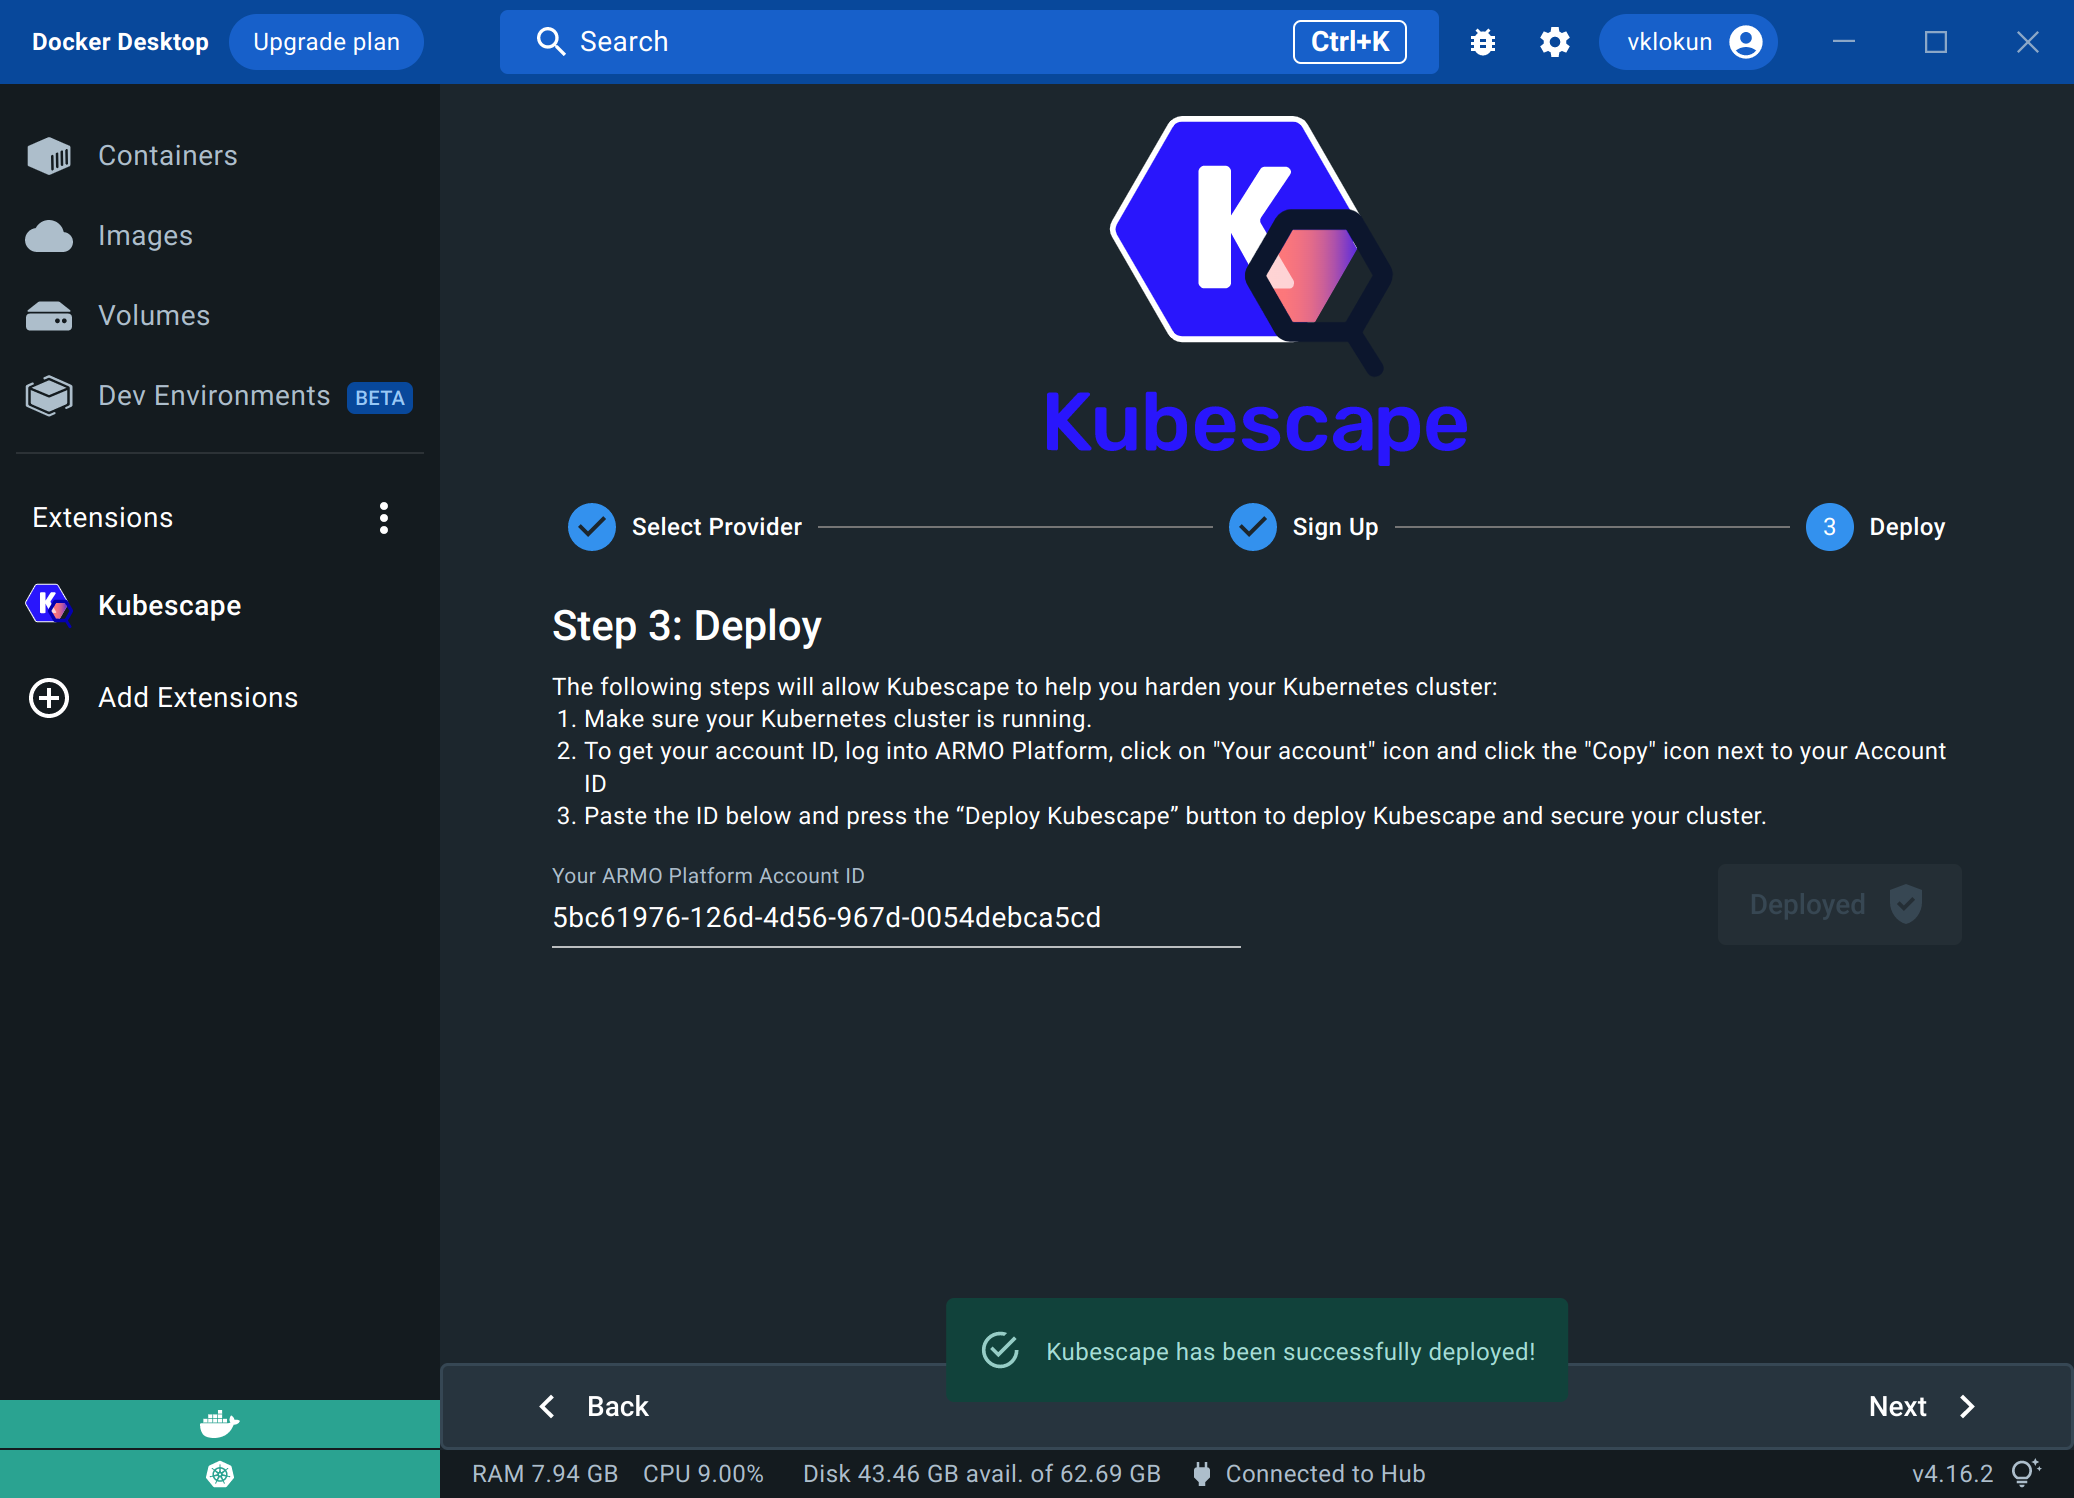
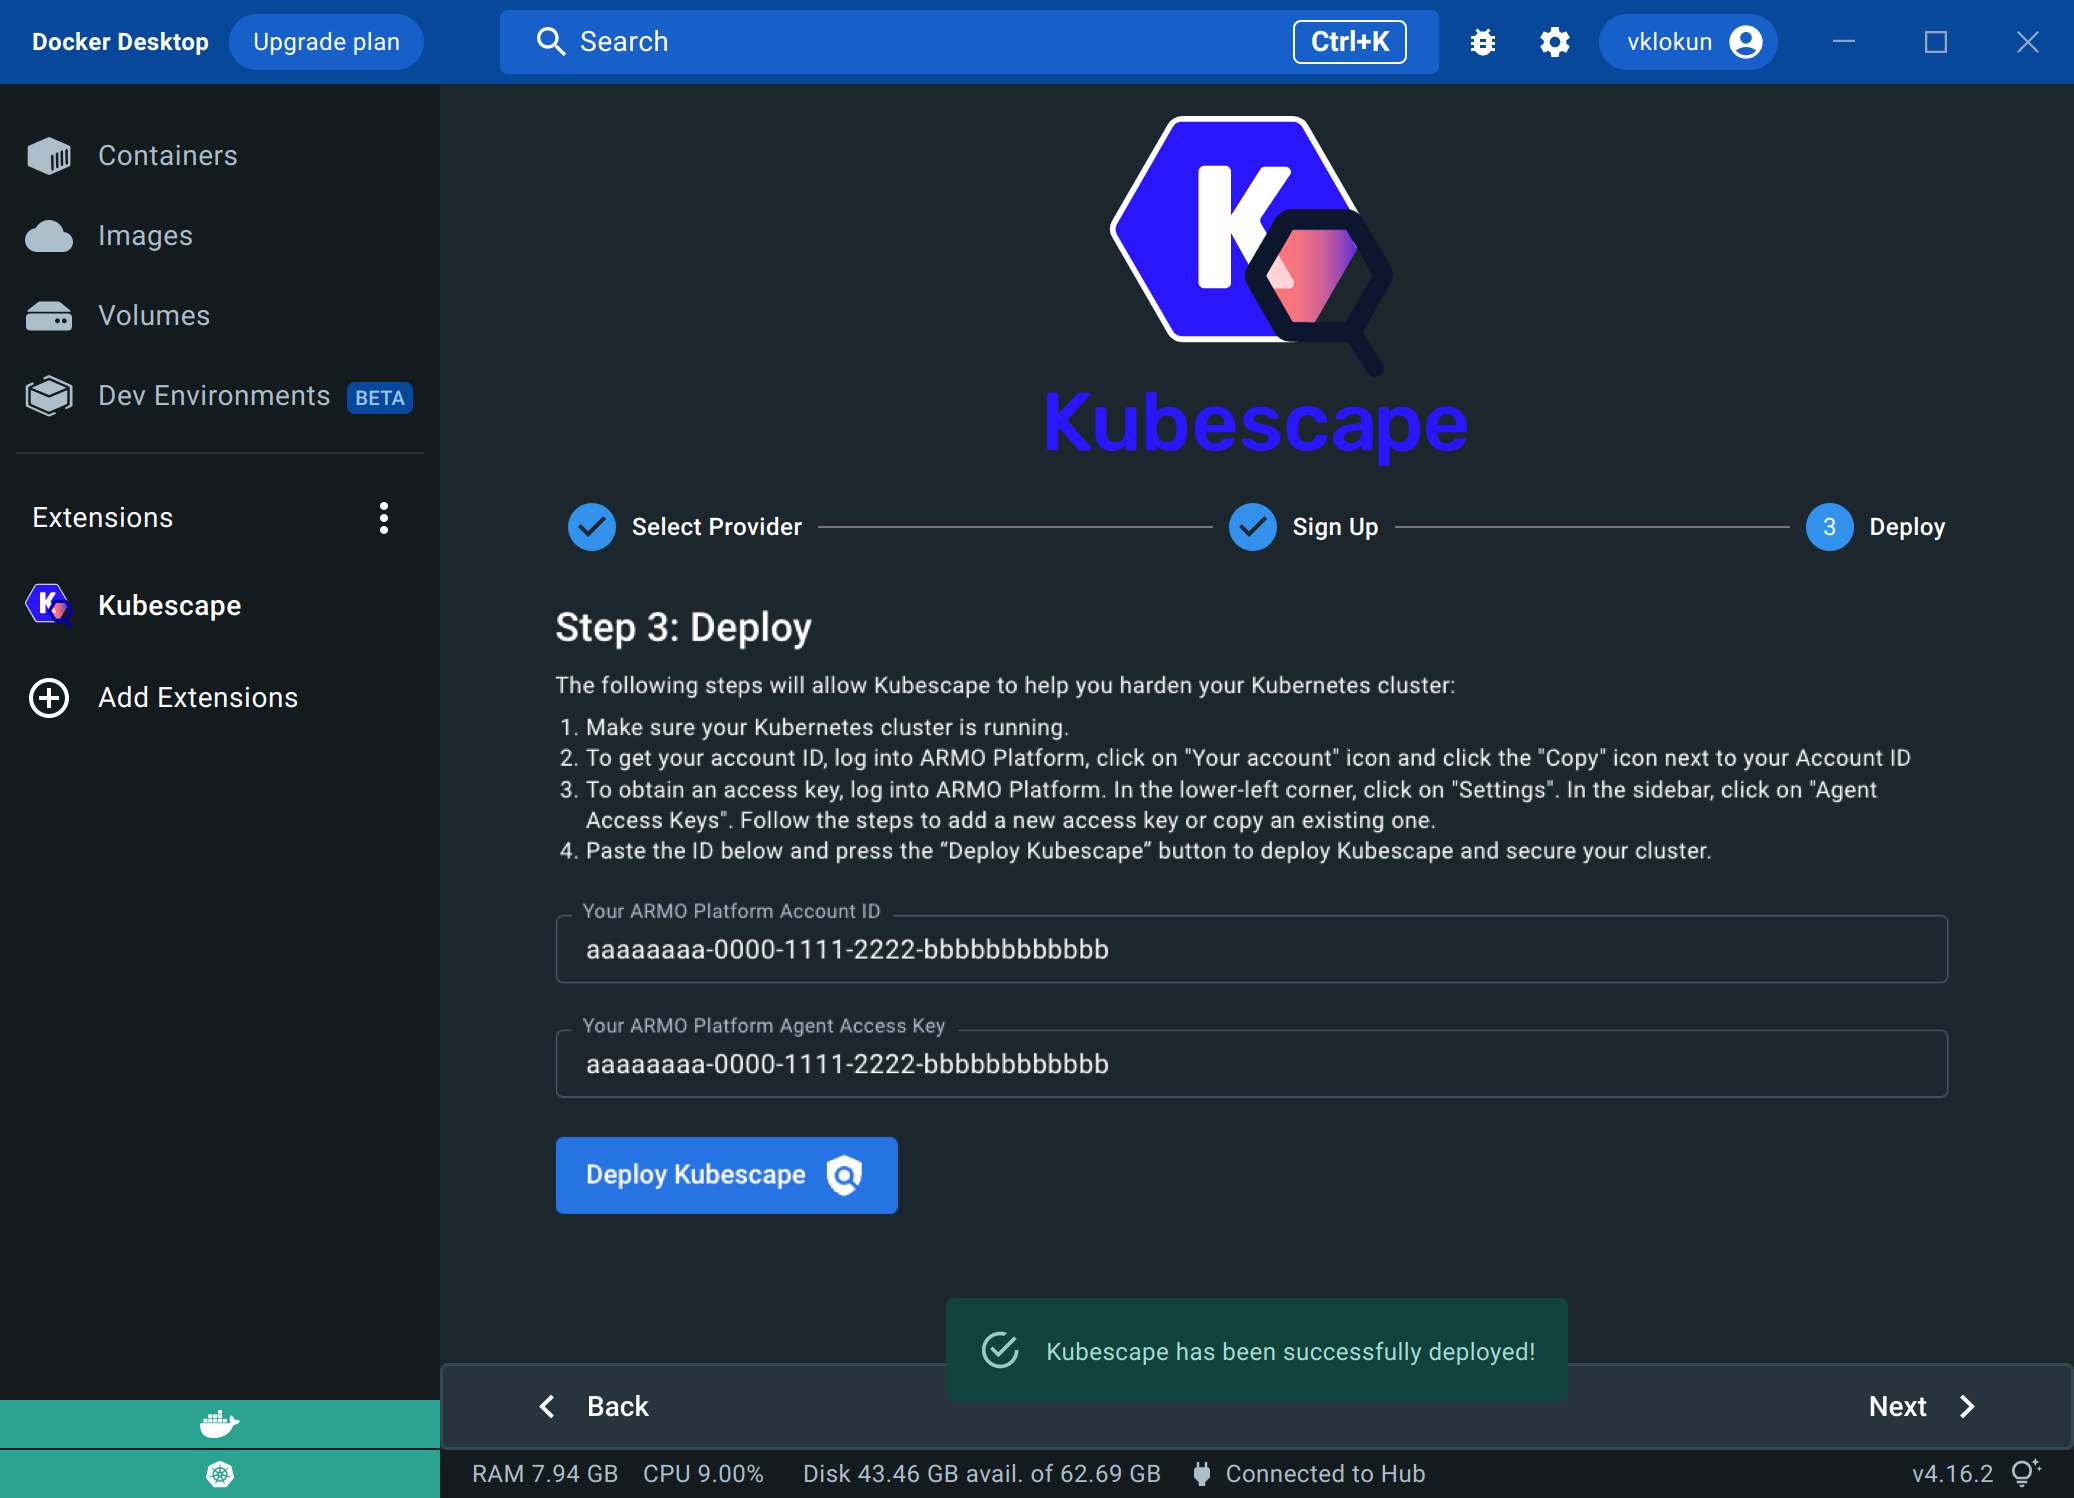
use access key, updated chart name

Changed region(s): [[0.2469, 0.3992, 0.9257, 0.6449], [0.2469, 0.6756, 0.5554, 0.8291], [0.8332, 0.5834, 0.9257, 0.6142]]

diff --git a/ui/src/App.tsx b/ui/src/App.tsx
@@ -20,7 +20,7 @@ const kubescapeSignupURL = "https://cloud.armosec.io/account/sign-up?utm_medium=
 const kubescapeDashboardURL = "https://cloud.armosec.io/dashboard?utm_medium=extension&utm_source=docker"
 
 const uuidRegex = /^[0-9a-fA-F]{8}-[0-9a-fA-F]{4}-[0-9a-fA-F]{4}-[0-9a-fA-F]{4}-[0-9a-fA-F]{12}$/
-const invalidUUIDMessage = "Input is not a valid Account ID."
+const invalidUUIDMessage = "Input is not a valid UUID"
 
 // Note: This line relies on Docker Desktop's presence as a host application.
 // If you're running this React app in a browser, it won't work properly.
@@ -163,21 +163,36 @@ const OrderedListItem = (props: ListItemProps) => {
 }
 
 const DeployPage = (props: PageProps) => {
-  const [accountID, setAccountID] = useState<string>("");
+  const [accessKey, setAccessKey] = useState<string>("")
+  const [accessKeyInvalid, setAccessKeyInvalid] = useState<boolean>(true)
+  const [accessKeyValidationText, setAccessKeyValidationText] = useState<string>("")
 
-  const [accountIDInvalid, setAccountIDInvalid] = useState<boolean>(true);
-  const [accountIDValidationText, setAccountIDValidationText] = useState<string>("");
+  const [accountID, setAccountID] = useState<string>("")
+  const [accountIDInvalid, setAccountIDInvalid] = useState<boolean>(true)
+  const [accountIDValidationText, setAccountIDValidationText] = useState<string>("")
 
-  const [deployingKubescape, setDeployingKubescape] = useState<boolean>(false);
-  const [kubescapeDeployed, setKubescapeDeployed] = useState<boolean>(false);
+  const [deployingKubescape, setDeployingKubescape] = useState<boolean>(false)
+  const [kubescapeDeployed, setKubescapeDeployed] = useState<boolean>(false)
 
   const ddClient = useDockerDesktopClient();
 
-  const handleTextChange = (event: ChangeEvent<HTMLInputElement>) => {
+  const handleAccessKeyTextChange = (event: ChangeEvent<HTMLInputElement>) => {
     let inputValue = event.currentTarget.value.toLowerCase()
+    setAccessKey(inputValue)
+
+    if (uuidRegex.test(inputValue)) {
+      setAccessKeyInvalid(false)
+    } else {
+      setAccessKeyValidationText(invalidUUIDMessage)
+      setAccessKeyInvalid(true)
+    }
+  }
+
+  const handleAccountIdTextChange = (event: ChangeEvent<HTMLInputElement>) => {
+    let inputValue = event.currentTarget.value.toLowerCase()
+    setAccountID(inputValue)
     if (uuidRegex.test(inputValue)) {
       setAccountIDInvalid(false)
-      setAccountID(inputValue)
     } else {
       setAccountIDValidationText(invalidUUIDMessage)
       setAccountIDInvalid(true)
@@ -186,7 +201,7 @@ const DeployPage = (props: PageProps) => {
 
   const handleDeployRequest = async () => {
     setDeployingKubescape(true)
-    await deployKubescapeHelm(ddClient, accountID)
+    await deployKubescapeHelm(ddClient, accountID, accessKey)
     setDeployingKubescape(false)
 
     setKubescapeDeployed(true)
@@ -207,19 +222,32 @@ const DeployPage = (props: PageProps) => {
         <NumberedList>
           <OrderedListItem>Make sure your Kubernetes cluster is running.</OrderedListItem>
           <OrderedListItem>To get your account ID, log into ARMO Platform, click on "Your account" icon and click the "Copy" icon next to your Account ID</OrderedListItem>
+          <OrderedListItem>To obtain an access key, log into ARMO Platform. In the lower-left corner, click on "Settings". In the sidebar, click on "Agent Access Keys". Follow the steps to add a new access key or copy an existing one.</OrderedListItem>
           <OrderedListItem>Paste the ID below and press the “Deploy Kubescape” button to deploy Kubescape and secure your cluster.</OrderedListItem>
         </NumberedList>
       </Typography>
 
-      <Grid container direction="row" justifyContent="space-between" alignItems="bottom" spacing={verticalSpacing}>
-        <Grid item xs={6}>
+      <Grid container direction="column" justifyContent="space-between" alignItems="bottom" spacing={verticalSpacing}>
+        <Grid item>
           <TextField
             fullWidth={true}
             error={accountIDInvalid}
-            variant="standard"
-            onChange={handleTextChange}
+            variant="outlined"
+            value={accountID}
+            onChange={handleAccountIdTextChange}
             helperText={accountIDInvalid && accountIDValidationText}
             label="Your ARMO Platform Account ID"
+          />
+        </Grid>
+        <Grid item>
+          <TextField
+            fullWidth={true}
+            error={accessKeyInvalid}
+            variant="outlined"
+            onChange={handleAccessKeyTextChange}
+            value={accessKey}
+            helperText={accessKeyInvalid && accessKeyValidationText}
+            label="Your ARMO Platform Agent Access Key"
           />
         </Grid>
         <Grid item>
@@ -228,7 +256,7 @@ const DeployPage = (props: PageProps) => {
             loading={deployingKubescape}
             loadingPosition="end"
             endIcon={kubescapeDeployed ? <GppGoodIcon /> : <PolicyIcon />}
-            disabled={accountIDInvalid || kubescapeDeployed}
+            disabled={accountIDInvalid || accessKeyInvalid || kubescapeDeployed}
             variant="contained"
             onClick={handleDeployRequest}
           >

diff --git a/ui/src/helper/kubernetes.ts b/ui/src/helper/kubernetes.ts
@@ -6,7 +6,8 @@ export const IsK8sEnabled = "isK8sEnabled";
 
 const kubescapeReleaseName = "kubescape"
 
-export const deployKubescapeHelm = async (ddClient: v1.DockerDesktopClient, accountID: string) => {
+export const deployKubescapeHelm = async (ddClient: v1.DockerDesktopClient, accountID: string, accessKey: string) => {
+
   let output = await ddClient.extension.host?.cli.exec("helm", ["version"]);
   console.log(output);
 
@@ -23,11 +24,13 @@ export const deployKubescapeHelm = async (ddClient: v1.DockerDesktopClient, acco
   output = await ddClient.extension.host?.cli.exec(
     "helm", [
     "upgrade",
-    "--install", "kubescape", "kubescape/kubescape-cloud-operator",
+    "--install", "kubescape", "kubescape/kubescape-operator",
     "-n", "kubescape",
     "--create-namespace",
     "--set", `account=${accountID}`,
+    "--set", `accessKey=${accessKey}`,
     "--set", "clusterName=`kubectl config current-context`",
+    "--set", "server=api.armosec.io",
   ]
   )
   console.log(output)
